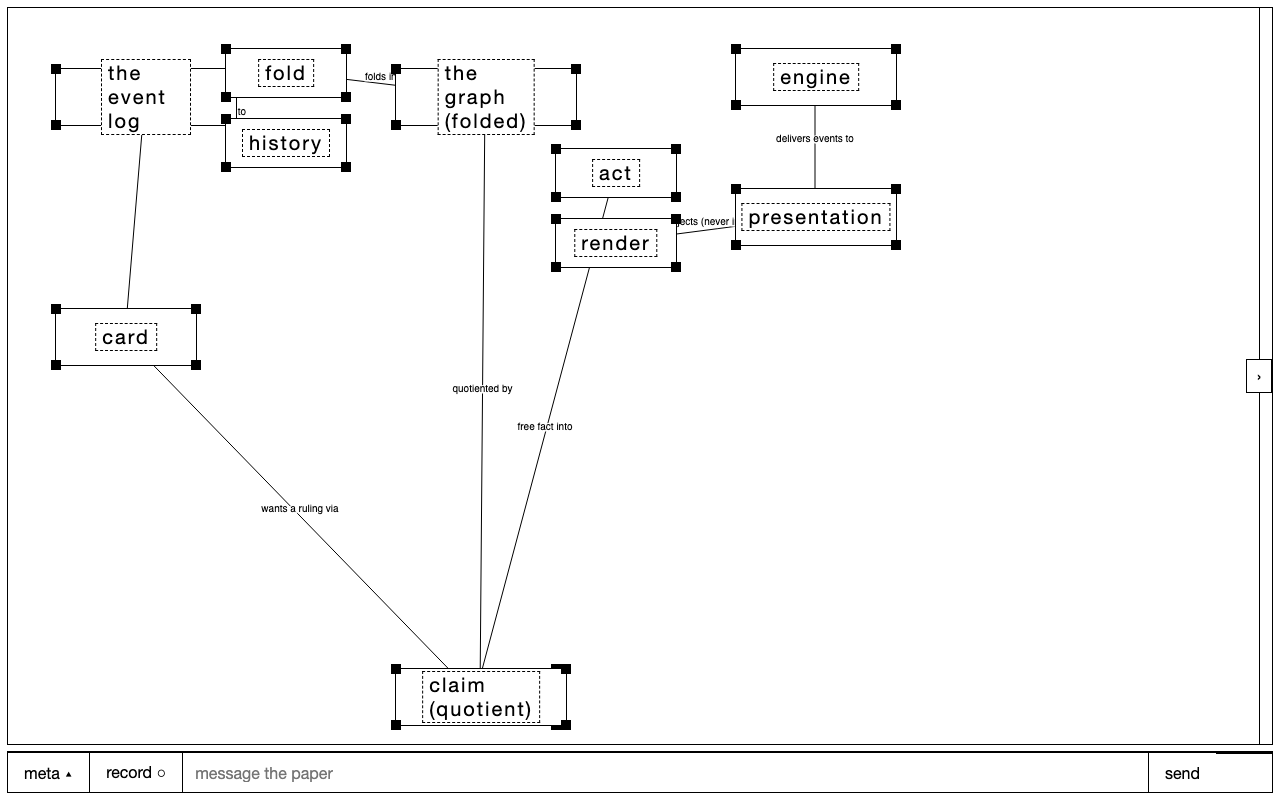
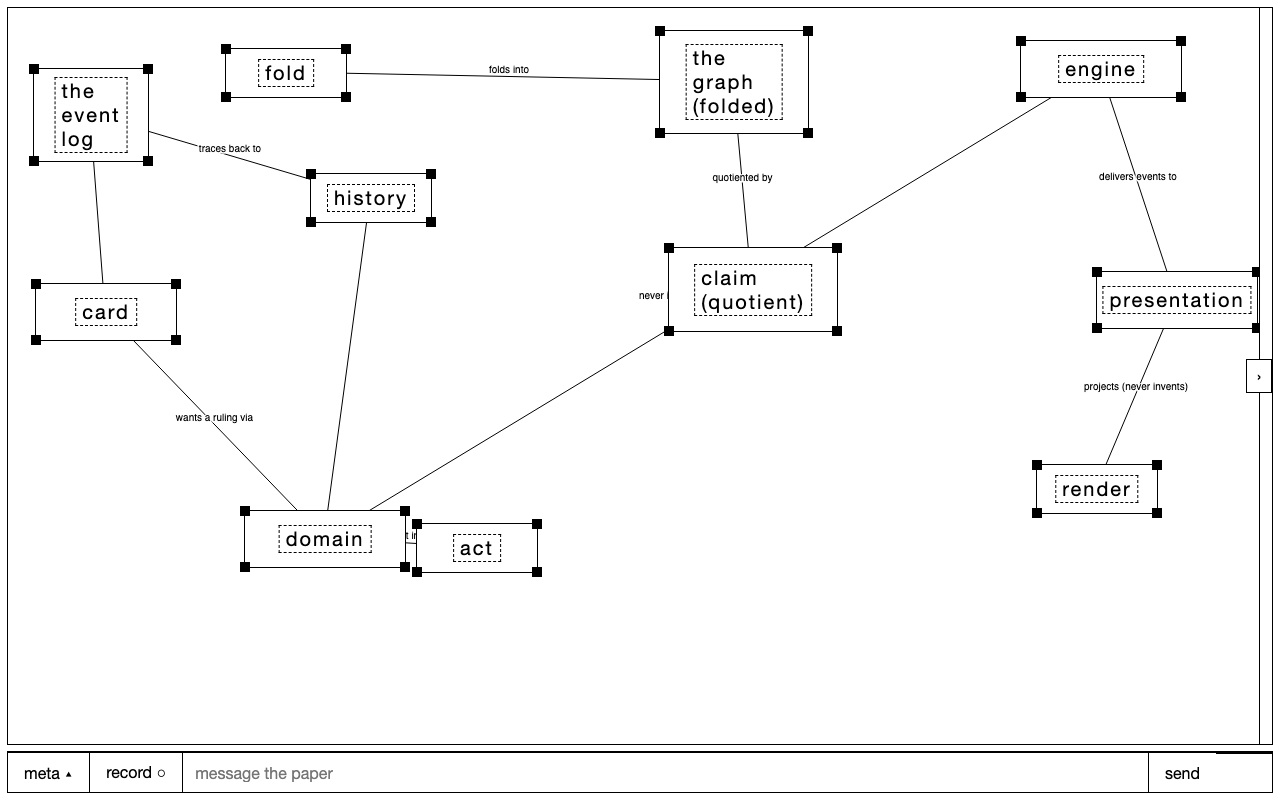
the verb ask: edge-drop opens an inline input at the arrow's midpoint — the modal prompt is gone (it blocked the gesture's flow, and its headless auto-dismiss was a fiction the probe relied on). Enter commits the labeled edge act (empty = bare arrow), Escape commits bare, blur/click-away abandons th

diff --git a/web/verbprobe.ts b/web/verbprobe.ts
@@ -1,0 +1,76 @@
+// web/verbprobe.ts — verify the inline verb ask: dropping an arrow opens
+// an <input> at the arrow's midpoint (the modal prompt is gone), Enter
+// commits a labeled edge act, and the label rides the log into the
+// rendered SVG line. Run: bun web/verbprobe.ts
+
+import { chromium } from "../prototypes/interaction/node_modules/playwright/index.js";
+import { mkdirSync } from "node:fs";
+
+const URL = process.env.PAPER_URL ?? "http://localhost:5174";
+const OUT = "web/shots";
+mkdirSync(OUT, { recursive: true });
+
+// engine → domain, the three-machines clause. The run stamp keeps every
+// probe run a fresh edge id (label is part of it), so "line count grew"
+// stays strict on re-runs instead of going idempotent.
+const VERB = "never interprets (probe " + new Date().toTimeString().slice(0, 8) + ")";
+
+const browser = await chromium.launch();
+const page = await browser.newPage({ viewport: { width: 1280, height: 800 } });
+page.on("pageerror", (e) => console.log("pageerror:", String(e).slice(0, 300)));
+await page.goto(URL, { waitUntil: "networkidle" });
+await page.waitForTimeout(2500); // first poll
+
+// jump to the olog sketch frame (last static frame: press › until title matches)
+for (let i = 0; i < 9; i++) {
+  const t = await page.locator("#frame-title").textContent();
+  if (t.includes("olog")) break;
+  await page.click("#fnext");
+  await page.waitForTimeout(150);
+}
+console.log("frame:", await page.locator("#frame-title").textContent());
+
+const before = await page.locator("#edgelay line:not(.rubber)").count();
+console.log("edge lines before:", before);
+
+// label-pill drag between two NON-overlapping nodes, exactly as sketchprobe:
+// grab the source's pill (box center), drop on the target's body edge
+const byLabel = (txt) => page.locator('#playground .box', { has: page.locator('.label', { hasText: new RegExp('^' + txt + '$') }) }).first();
+const eng = byLabel('engine'), dom = byLabel('domain');
+const eb = await eng.boundingBox(), db = await dom.boundingBox();
+let asked = false, atMid = false;
+if (eb && db) {
+  await page.mouse.move(eb.x + eb.width / 2, eb.y + eb.height / 2); // the label pill
+  await page.mouse.down();
+  await page.mouse.move(db.x + db.width - 12, db.y + db.height / 2, { steps: 8 }); // body edge, avoids the target's own pill
+  await page.mouse.up();
+  // the drop must open the inline ask — not a prompt — at the arrow's midpoint
+  const ask = page.locator("#playground .verbin");
+  await ask.waitFor({ state: "visible", timeout: 3000 });
+  const vb = await ask.boundingBox();
+  const mid = { x: (eb.x + eb.width / 2 + db.x + db.width / 2) / 2, y: (eb.y + eb.height / 2 + db.y + db.height / 2) / 2 };
+  atMid = !!vb && Math.abs(vb.x + vb.width / 2 - mid.x) < 8 && Math.abs(vb.y + vb.height / 2 - mid.y) < 8;
+  console.log("verb ask opened at midpoint:", atMid, vb && { x: Math.round(vb.x), y: Math.round(vb.y) });
+  await page.screenshot({ path: `${OUT}/olog-verb-1-ask.png` });
+  await page.keyboard.type(VERB);
+  await page.keyboard.press("Enter"); // commits the labeled edge act
+  asked = true;
+}
+await page.waitForTimeout(2600); // drain + poll
+
+const after = await page.locator("#edgelay line:not(.rubber)").count();
+const labeled = await page.locator("#edgelay text", { hasText: VERB }).count();
+const askGone = (await page.locator("#playground .verbin").count()) === 0;
+await page.screenshot({ path: `${OUT}/olog-verb-2-committed.png` });
+console.log("edge lines after:", after, "· label rendered:", labeled, "· ask closed:", askGone);
+
+// the decisive check: the edge act is IN THE LOG and carries the verb
+const log = await (await fetch(URL + "/events")).json();
+const evs = log.events ?? log;
+const edgeAct = evs.find((e) => e.kind === "edge" && e.from === "n-engine" && e.to === "n-domain" && e.label === VERB);
+console.log("edge act in log:", edgeAct ? edgeAct.id : "MISSING");
+
+const ok = asked && atMid && after > before && labeled === 1 && askGone && !!edgeAct;
+console.log(ok ? "PASS — the verb ask commits labeled edges inline" : "FAIL");
+await browser.close();
+process.exit(ok ? 0 : 1);

diff --git a/web/index.html b/web/index.html
@@ -40,6 +40,7 @@
     let latest = []; // the folded event log — declared up top: foldGeometry runs at first frame build
     let edges = []; // folded paper.edge events (latest per id)
     let link = null; // rubber-band gesture: { from, px, py }
+    let verbAsk = null; // dropped arrow awaiting its verb: { from, to, el }
     const boxes = [
       { name: 'A', x: 40, y: 40, w: 200, h: 140 },
       { name: 'B', x: 0, y: 40, w: 200, h: 140 },
@@ -387,15 +388,46 @@ One clause is still owed: a box flanked on both axes at once — one neighbor ea
       }
     });
 
+    // ——— the verb ask: the dropped arrow's phrase, asked inline ———
+    // Drop opens a small input at the arrow's midpoint — no modal prompt.
+    // Enter commits the edge act (value = label, empty = bare arrow),
+    // Escape commits the bare arrow, blur/click-away abandons the edge
+    // entirely: no act, no line.
+    function askVerb(from, to) {
+      closeVerb(null); // one ask at a time — a new drop supersedes the old
+      const a = boxes.find((b) => b.name === from), c = boxes.find((b) => b.name === to);
+      if (!a || !c || !playground) return;
+      const mx = (a.x + a.w / 2 + c.x + c.w / 2) / 2, my = (a.y + a.h / 2 + c.y + c.h / 2) / 2;
+      const el = document.createElement('input');
+      el.className = 'verbin';
+      el.placeholder = 'verb phrase?';
+      el.style.left = mx + 'px';
+      el.style.top = my + 'px';
+      playground.append(el);
+      el.focus();
+      verbAsk = { from, to, el };
+      el.addEventListener('keydown', (ev) => {
+        if (ev.key === 'Enter') closeVerb(el.value);
+        else if (ev.key === 'Escape') closeVerb('');
+      });
+      el.addEventListener('blur', () => closeVerb(null));
+    }
+    // commit !== null commits the edge (label '' = bare arrow); null abandons
+    function closeVerb(commit) {
+      if (!verbAsk) return;
+      const { from, to, el } = verbAsk;
+      verbAsk = null; // cleared first: el.remove() blurs, and the blur must find nothing left to abandon
+      el.remove();
+      if (commit !== null)
+        logEvent({ kind: 'edge', id: from + '>' + to + (commit ? ':' + commit : ''), from, to, label: commit });
+    }
+
     plane.addEventListener('pointerup', (e) => {
-      if (link) { // drop on a box commits the edge act; drop in space abandons
+      if (link) { // drop on a box opens the verb ask; drop in space abandons
         const target = document.elementFromPoint(e.clientX, e.clientY)?.closest('.box');
         const ti = target ? +target.dataset.i : -1;
         const to = boxes[ti] && boxes[ti].name !== link.from ? boxes[ti].name : null;
-        if (to) {
-          const label = prompt('verb phrase for this arrow? (ok = bare arrow)', '') ?? '';
-          logEvent({ kind: 'edge', id: link.from + '>' + to + (label ? ':' + label : ''), from: link.from, to, label });
-        }
+        if (to) askVerb(link.from, to);
         link = null;
         renderEdges();
         plane.releasePointerCapture(e.pointerId);
@@ -545,7 +577,7 @@ THE THREE MACHINES (07:50): the system is layered orthogonal state machines — 
     document.getElementById('fprev').addEventListener('click', () => switchFrame(frame - 1));
     document.getElementById('fnext').addEventListener('click', () => switchFrame(frame + 1));
     document.addEventListener('keydown', (e) => {
-      if (e.target === t) return; // typing in the chat bar
+      if (e.target === t || e.target === verbAsk?.el) return; // typing in the chat bar or the verb ask
       if (e.key === 'ArrowLeft') switchFrame(frame - 1);
       if (e.key === 'ArrowRight') switchFrame(frame + 1);
     });

diff --git a/web/sketchprobe.ts b/web/sketchprobe.ts
@@ -45,7 +45,8 @@ console.log("moved:", moved && { x: moved.x, y: moved.y });
 const byLabel = (txt) => page.locator('#playground .box', { has: page.locator('.label', { hasText: new RegExp('^' + txt + '$') }) }).first();
 
 // label-drag a link between two NON-overlapping nodes: log → card
-// (prompt auto-dismisses headless → bare arrow)
+// (drop opens the inline verb ask; Escape commits the bare arrow — the
+// prompt used to auto-dismiss headless, which meant the same thing)
 const fold = byLabel('the event log');
 const hist = byLabel('card');
 const fb = await fold.boundingBox(), hb = await hist.boundingBox();
@@ -55,6 +56,14 @@ if (fb && hb) {
   await page.mouse.down();
   await page.mouse.move(hb.x + hb.width - 12, hb.y + hb.height / 2, { steps: 8 }); // body edge, avoids the target's own pill
   await page.mouse.up();
+  // the drop must open the inline ask — Escape dismisses it, committing
+  // the bare arrow. If the ask never opens, the gesture regressed: fail.
+  var dismissed = false;
+  try {
+    await page.locator("#playground .verbin").waitFor({ state: "visible", timeout: 3000 });
+    await page.keyboard.press("Escape");
+    dismissed = true;
+  } catch {}
   await page.waitForTimeout(2600);
   lines = await page.locator("#edgelay line:not(.rubber)").count();
   console.log("edge lines after link gesture:", lines);
@@ -78,7 +87,7 @@ await page.screenshot({ path: `${OUT}/olog-3-reloaded.png` });
 console.log("reloaded — nodes:", boxes2, "lines:", lines2, "domain at:", dom2 && { x: dom2.x, y: dom2.y });
 
 const ok =
-  boxCount === 11 && lineCount >= 7 && linked &&
+  boxCount === 11 && lineCount >= 7 && linked && dismissed &&
   moved && dom2 && Math.abs(moved.y - dom2.y) < 2 &&
   boxes2 === 11 && lines2 === lines;
 // the decisive check: the edge act is IN THE LOG with the right endpoints

diff --git a/web/house.css b/web/house.css
@@ -366,3 +366,18 @@ form .status {
   cursor: crosshair;
   pointer-events: auto; /* the pill is a real target here — by-name grab = link */
 }
+
+/* the verb ask: inline input at a dropped arrow's midpoint —
+   Enter commits, Escape commits bare, blur/click-away abandons */
+.verbin {
+  position: absolute;
+  transform: translate(-50%, -50%);
+  width: 150px;
+  padding: 2px 6px;
+  font: 11px/1.3 sans-serif;
+  background: #fff;
+  color: #000;
+  border: 1px solid #000;
+  border-radius: 0;
+  outline: none;
+}
